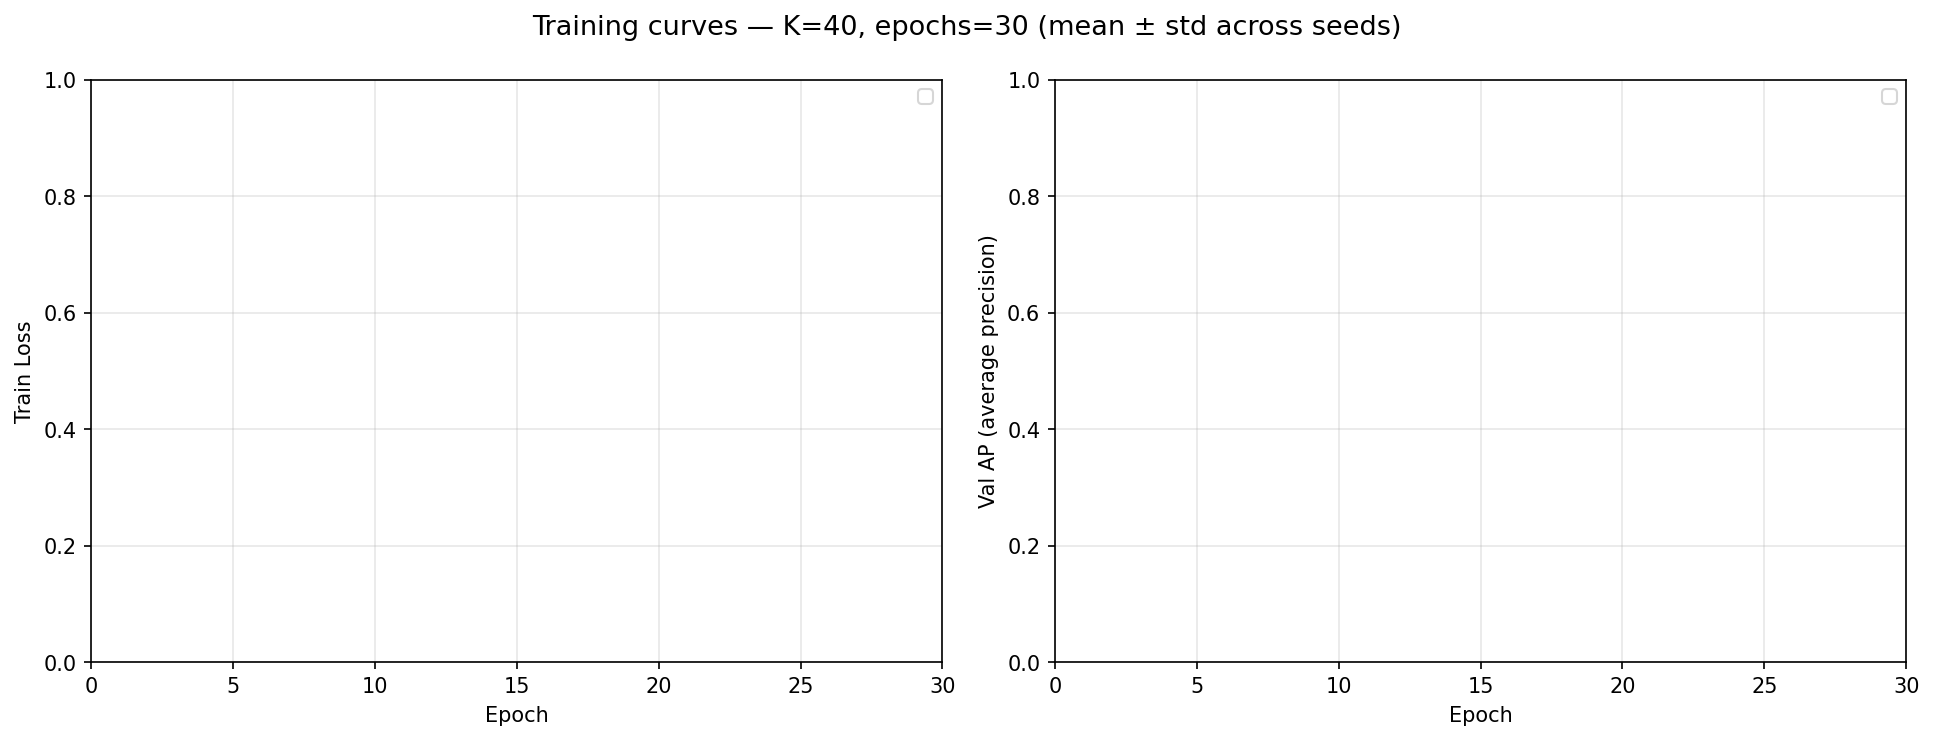
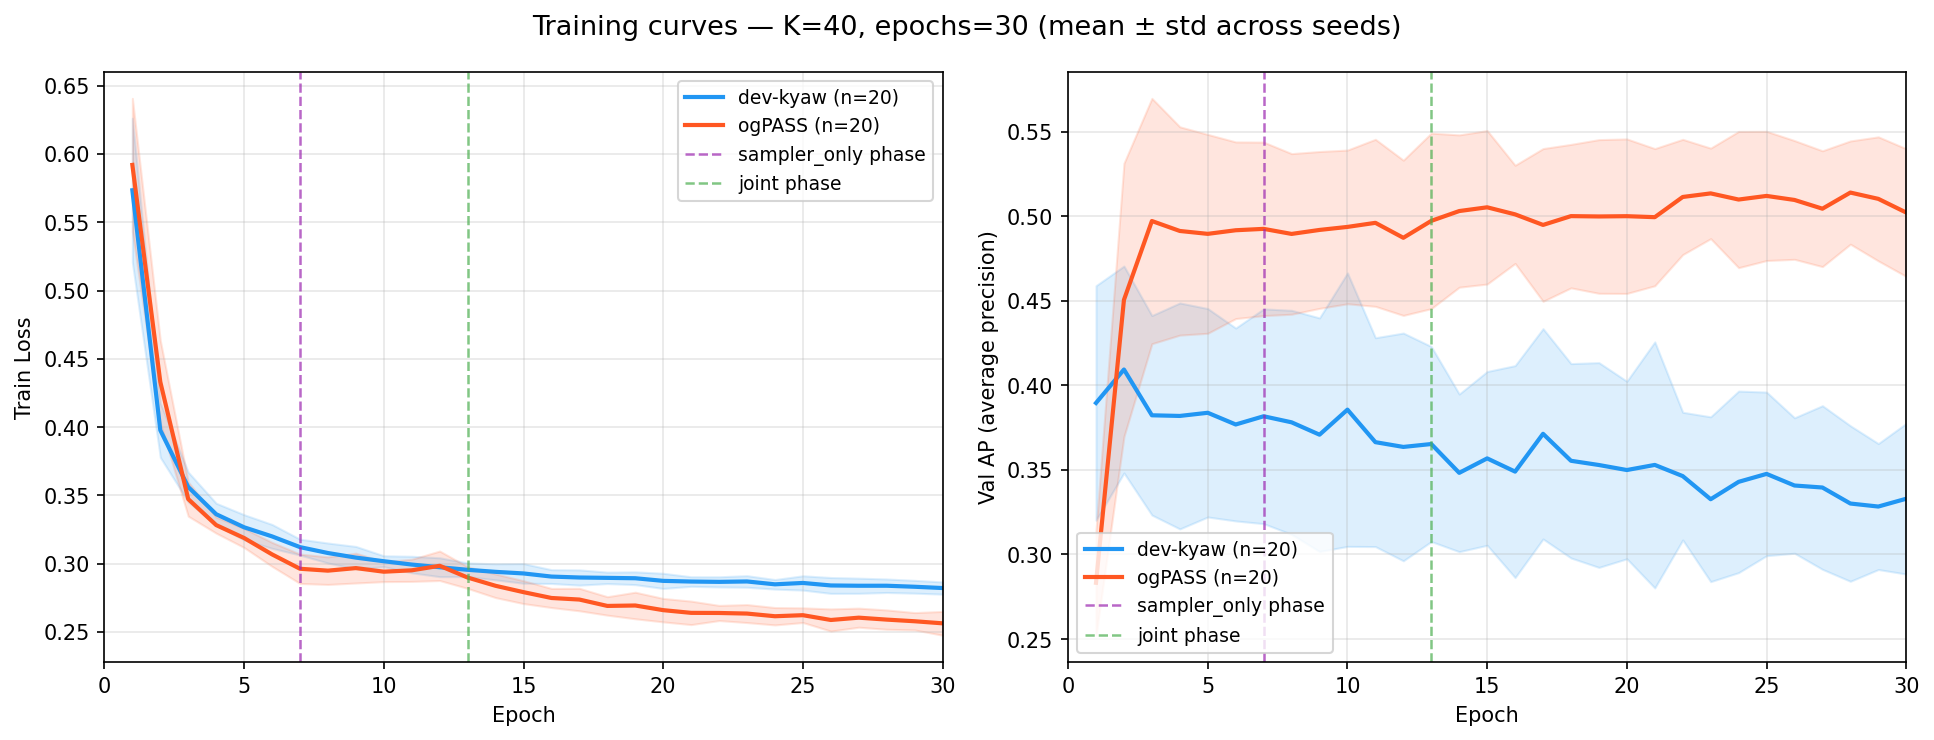
Add K=40 ep30 results: training curves and summary (n=20 seeds)

diff --git a/experiment_results_baseline_fix.md b/experiment_results_baseline_fix.md
@@ -473,12 +473,24 @@ _ogPASS 3-phase: warmup=6, sampler_only=6, joint=18._
 
 _ogPASS 3-phase: warmup=6, sampler_only=6, joint=18._
 
-### Aggregated (mean ± std over 0 seeds)
+### Aggregated (mean ± std over 20 seeds)
 
 | branch | AP ↑ | AUC ↑ | F1 ↑ | Acc ↑ |
 |---|---|---|---|---|
-| dev-kyaw (n=0) | — | — | — | — |
-| ogPASS (n=0) | — | — | — | — |
+| dev-kyaw (n=20) | 0.4009 ± 0.0834 | 0.7702 ± 0.0445 | 0.3806 ± 0.1666 | 0.7397 ± 0.0741 |
+| ogPASS (n=20) | 0.3762 ± 0.0269 | 0.8058 ± 0.0235 | 0.3781 ± 0.1350 | 0.7862 ± 0.0386 |
+
+### Δ (ogPASS − dev-kyaw) — positive is better for all metrics
+
+| ΔAP | ΔAUC | ΔF1 | ΔAcc |
+|---|---|---|---|
+| -0.0247 | +0.0356 | -0.0025 | +0.0465 |
+
+### Variance ratio (ogPASS std ÷ dev-kyaw std — lower = ogPASS more stable)
+
+| AP | AUC | F1 | Acc |
+|---|---|---|---|
+| 0.32× | 0.53× | 0.81× | 0.52× |
 
 ### Per-seed
 
@@ -486,11 +498,51 @@ _ogPASS 3-phase: warmup=6, sampler_only=6, joint=18._
 
 | seed | AP | AUC | F1 | Acc |
 |---:|---:|---:|---:|---:|
+| 0 | 0.5490 | 0.8033 | 0.4451 | 0.7218 |
+| 1 | 0.4158 | 0.7065 | 0.3883 | 0.7700 |
+| 2 | 0.3284 | 0.7547 | 0.4481 | 0.5895 |
+| 3 | 0.2723 | 0.7293 | 0.4528 | 0.6171 |
+| 4 | 0.4938 | 0.8032 | 0.5768 | 0.8444 |
+| 5 | 0.5043 | 0.8352 | 0.5659 | 0.7548 |
+| 6 | 0.3748 | 0.7143 | 0.1159 | 0.8320 |
+| 7 | 0.3766 | 0.7282 | 0.4643 | 0.6281 |
+| 8 | 0.3348 | 0.7310 | 0.3482 | 0.7989 |
+| 9 | 0.4506 | 0.7899 | 0.4990 | 0.6680 |
+| 10 | 0.4933 | 0.8011 | 0.5185 | 0.6956 |
+| 11 | 0.2739 | 0.7383 | 0.0000 | 0.7741 |
+| 12 | 0.4605 | 0.8548 | 0.3027 | 0.8223 |
+| 13 | 0.4795 | 0.7992 | 0.4933 | 0.6860 |
+| 14 | 0.3864 | 0.7810 | 0.3793 | 0.7521 |
+| 15 | 0.4781 | 0.8290 | 0.5013 | 0.7369 |
+| 16 | 0.3168 | 0.7517 | 0.3516 | 0.7713 |
+| 17 | 0.3518 | 0.7602 | 0.3280 | 0.7121 |
+| 18 | 0.3768 | 0.7867 | 0.0000 | 0.8237 |
+| 19 | 0.3000 | 0.7056 | 0.4335 | 0.7948 |
 
 #### ogPASS
 
 | seed | AP | AUC | F1 | Acc |
 |---:|---:|---:|---:|---:|
+| 0 | 0.3865 | 0.8015 | 0.2842 | 0.8127 |
+| 1 | 0.4184 | 0.8383 | 0.5247 | 0.8278 |
+| 2 | 0.3975 | 0.8236 | 0.4784 | 0.8168 |
+| 3 | 0.3826 | 0.8199 | 0.3983 | 0.8044 |
+| 4 | 0.3844 | 0.8179 | 0.4875 | 0.8030 |
+| 5 | 0.3635 | 0.7739 | 0.4516 | 0.6722 |
+| 6 | 0.3811 | 0.8005 | 0.3738 | 0.8154 |
+| 7 | 0.3203 | 0.7623 | 0.2654 | 0.7865 |
+| 8 | 0.4002 | 0.8144 | 0.5211 | 0.7493 |
+| 9 | 0.3996 | 0.8002 | 0.4677 | 0.8182 |
+| 10 | 0.3762 | 0.8209 | 0.0403 | 0.8030 |
+| 11 | 0.3932 | 0.8259 | 0.2915 | 0.8058 |
+| 12 | 0.3173 | 0.7583 | 0.4495 | 0.7672 |
+| 13 | 0.3547 | 0.7907 | 0.5000 | 0.7466 |
+| 14 | 0.3726 | 0.8210 | 0.2909 | 0.7851 |
+| 15 | 0.3806 | 0.8192 | 0.5099 | 0.7961 |
+| 16 | 0.3975 | 0.8285 | 0.3056 | 0.7934 |
+| 17 | 0.3809 | 0.8066 | 0.1242 | 0.8058 |
+| 18 | 0.3307 | 0.7691 | 0.4691 | 0.7163 |
+| 19 | 0.3861 | 0.8230 | 0.3288 | 0.7975 |
 
 <!-- END SWEEP n40_ep30 -->
 
